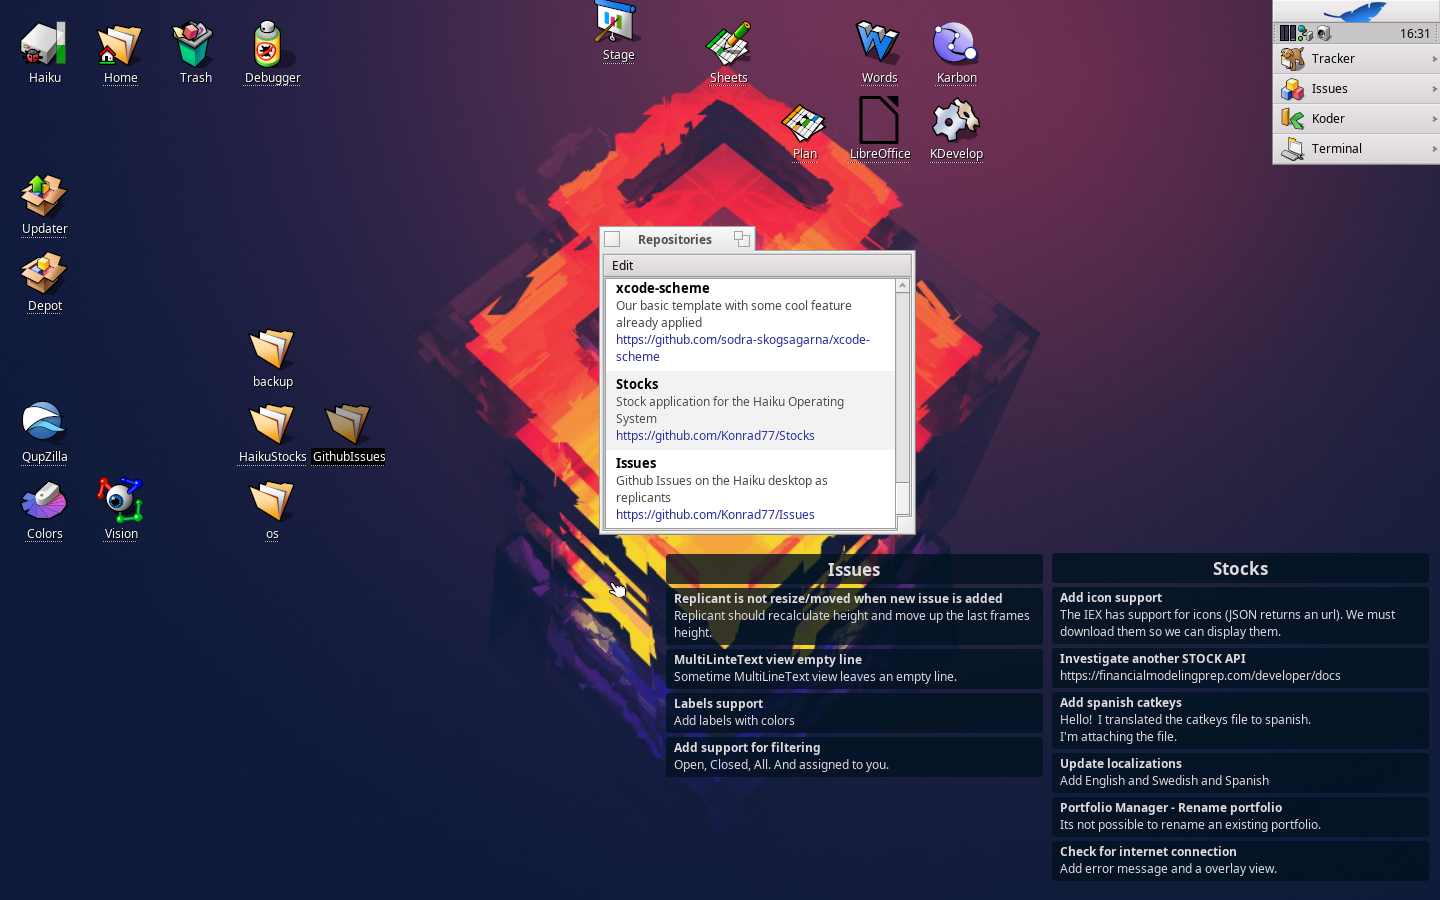
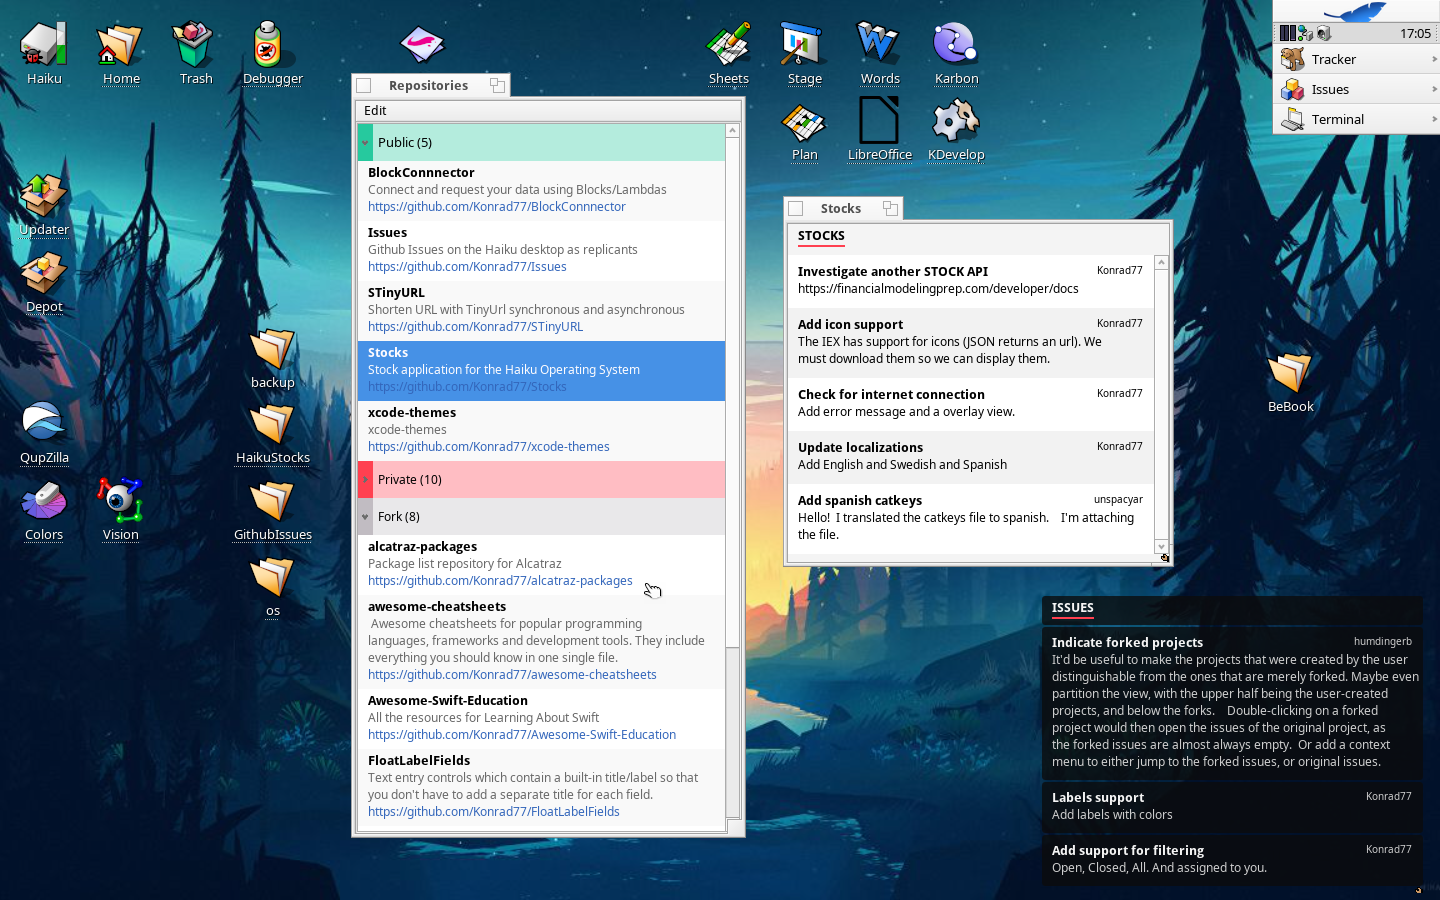
Updated screenshots

diff --git a/Source/ListItems/RepositoryTypeItem.cpp b/Source/ListItems/RepositoryTypeItem.cpp
@@ -70,7 +70,19 @@ RepositoryTypeItem::DrawItem(BView *view, BRect rect, bool complete)
 	parent->MovePenTo(BPoint(20, frame.LeftBottom().y - horizontalCenter));
 	parent->DrawString(fTitle.String());
 }
-	
+
+void 
+RepositoryTypeItem::SetVisibleItems(uint8 visible, uint8 total)
+{
+	BString visability = BString("(");
+	if (visible == total) {
+		visability << visible << ")";
+	} else {
+		visability << visible << "/" << total << ")";
+	}
+	fTitle << " " << visability;
+}	
+
 void 
 RepositoryTypeItem::Update(BView *view, const BFont *font)
 {	

diff --git a/Source/ListItems/RepositoryTypeItem.h b/Source/ListItems/RepositoryTypeItem.h
@@ -21,7 +21,9 @@ class RepositoryTypeItem : public BListItem {
 public:
 	RepositoryTypeItem(RepositoryType type);
 	~RepositoryTypeItem();	
-	
+
+			void SetVisibleItems(uint8 visible, uint8 total);
+			
 	virtual void DrawItem(BView *view, BRect rect, bool complete = true);	
 	virtual void Update(BView *view, const BFont *font);
 	
@@ -33,6 +35,7 @@ private:
 	rgb_color			fIndicatorColor;
 	RepositoryType		fType;
 	BString				fTitle;
+	BString 			fVisability;
 	float 				fHeight;
 	float				fPreviousHeight;
 };

diff --git a/Source/Windows/GithubRepositoryWindow.cpp b/Source/Windows/GithubRepositoryWindow.cpp
@@ -154,7 +154,7 @@ GithubRepositoryWindow::PopuplateListView(RepositoryType type, BList *list)
 	
 	const int32 items = list->CountItems();
 	RepositoryTypeItem *superItem = new RepositoryTypeItem(type);
-	
+	superItem->SetVisibleItems(list->CountItems(), list->CountItems());
 	fRepositoryListView->AddItem(superItem);
 	
 	for( int32 index = 0; index < items; index++) {
